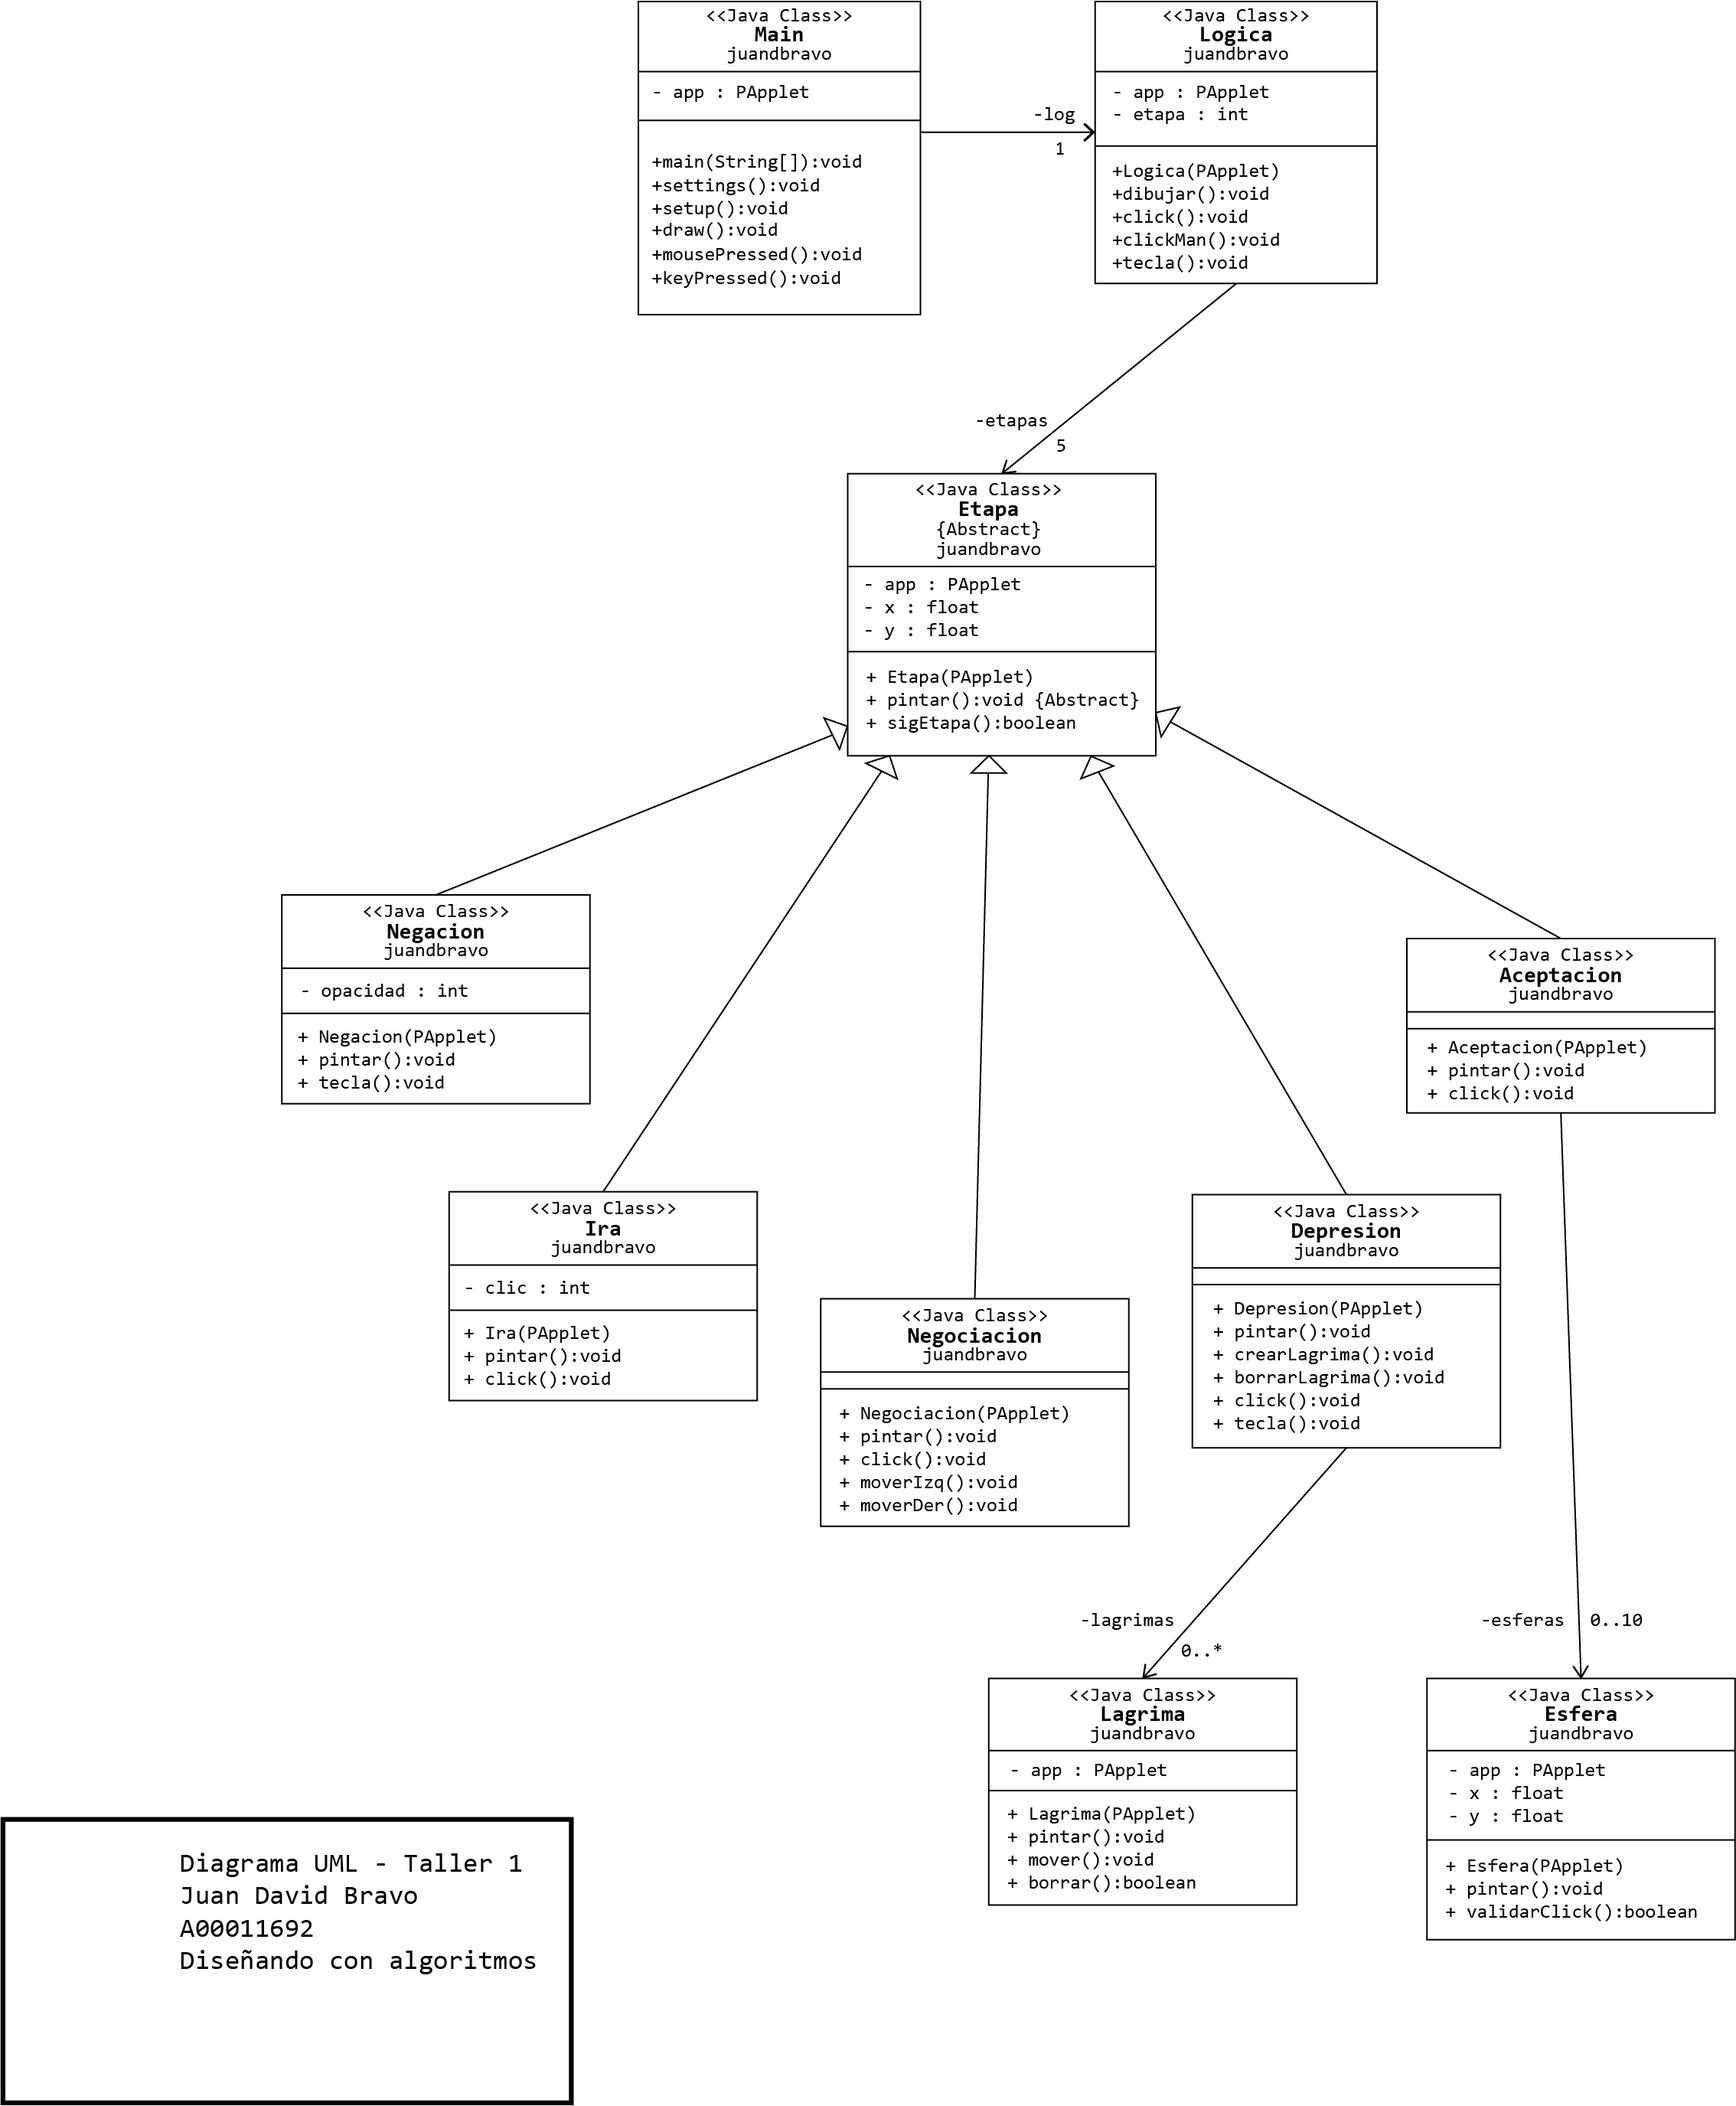
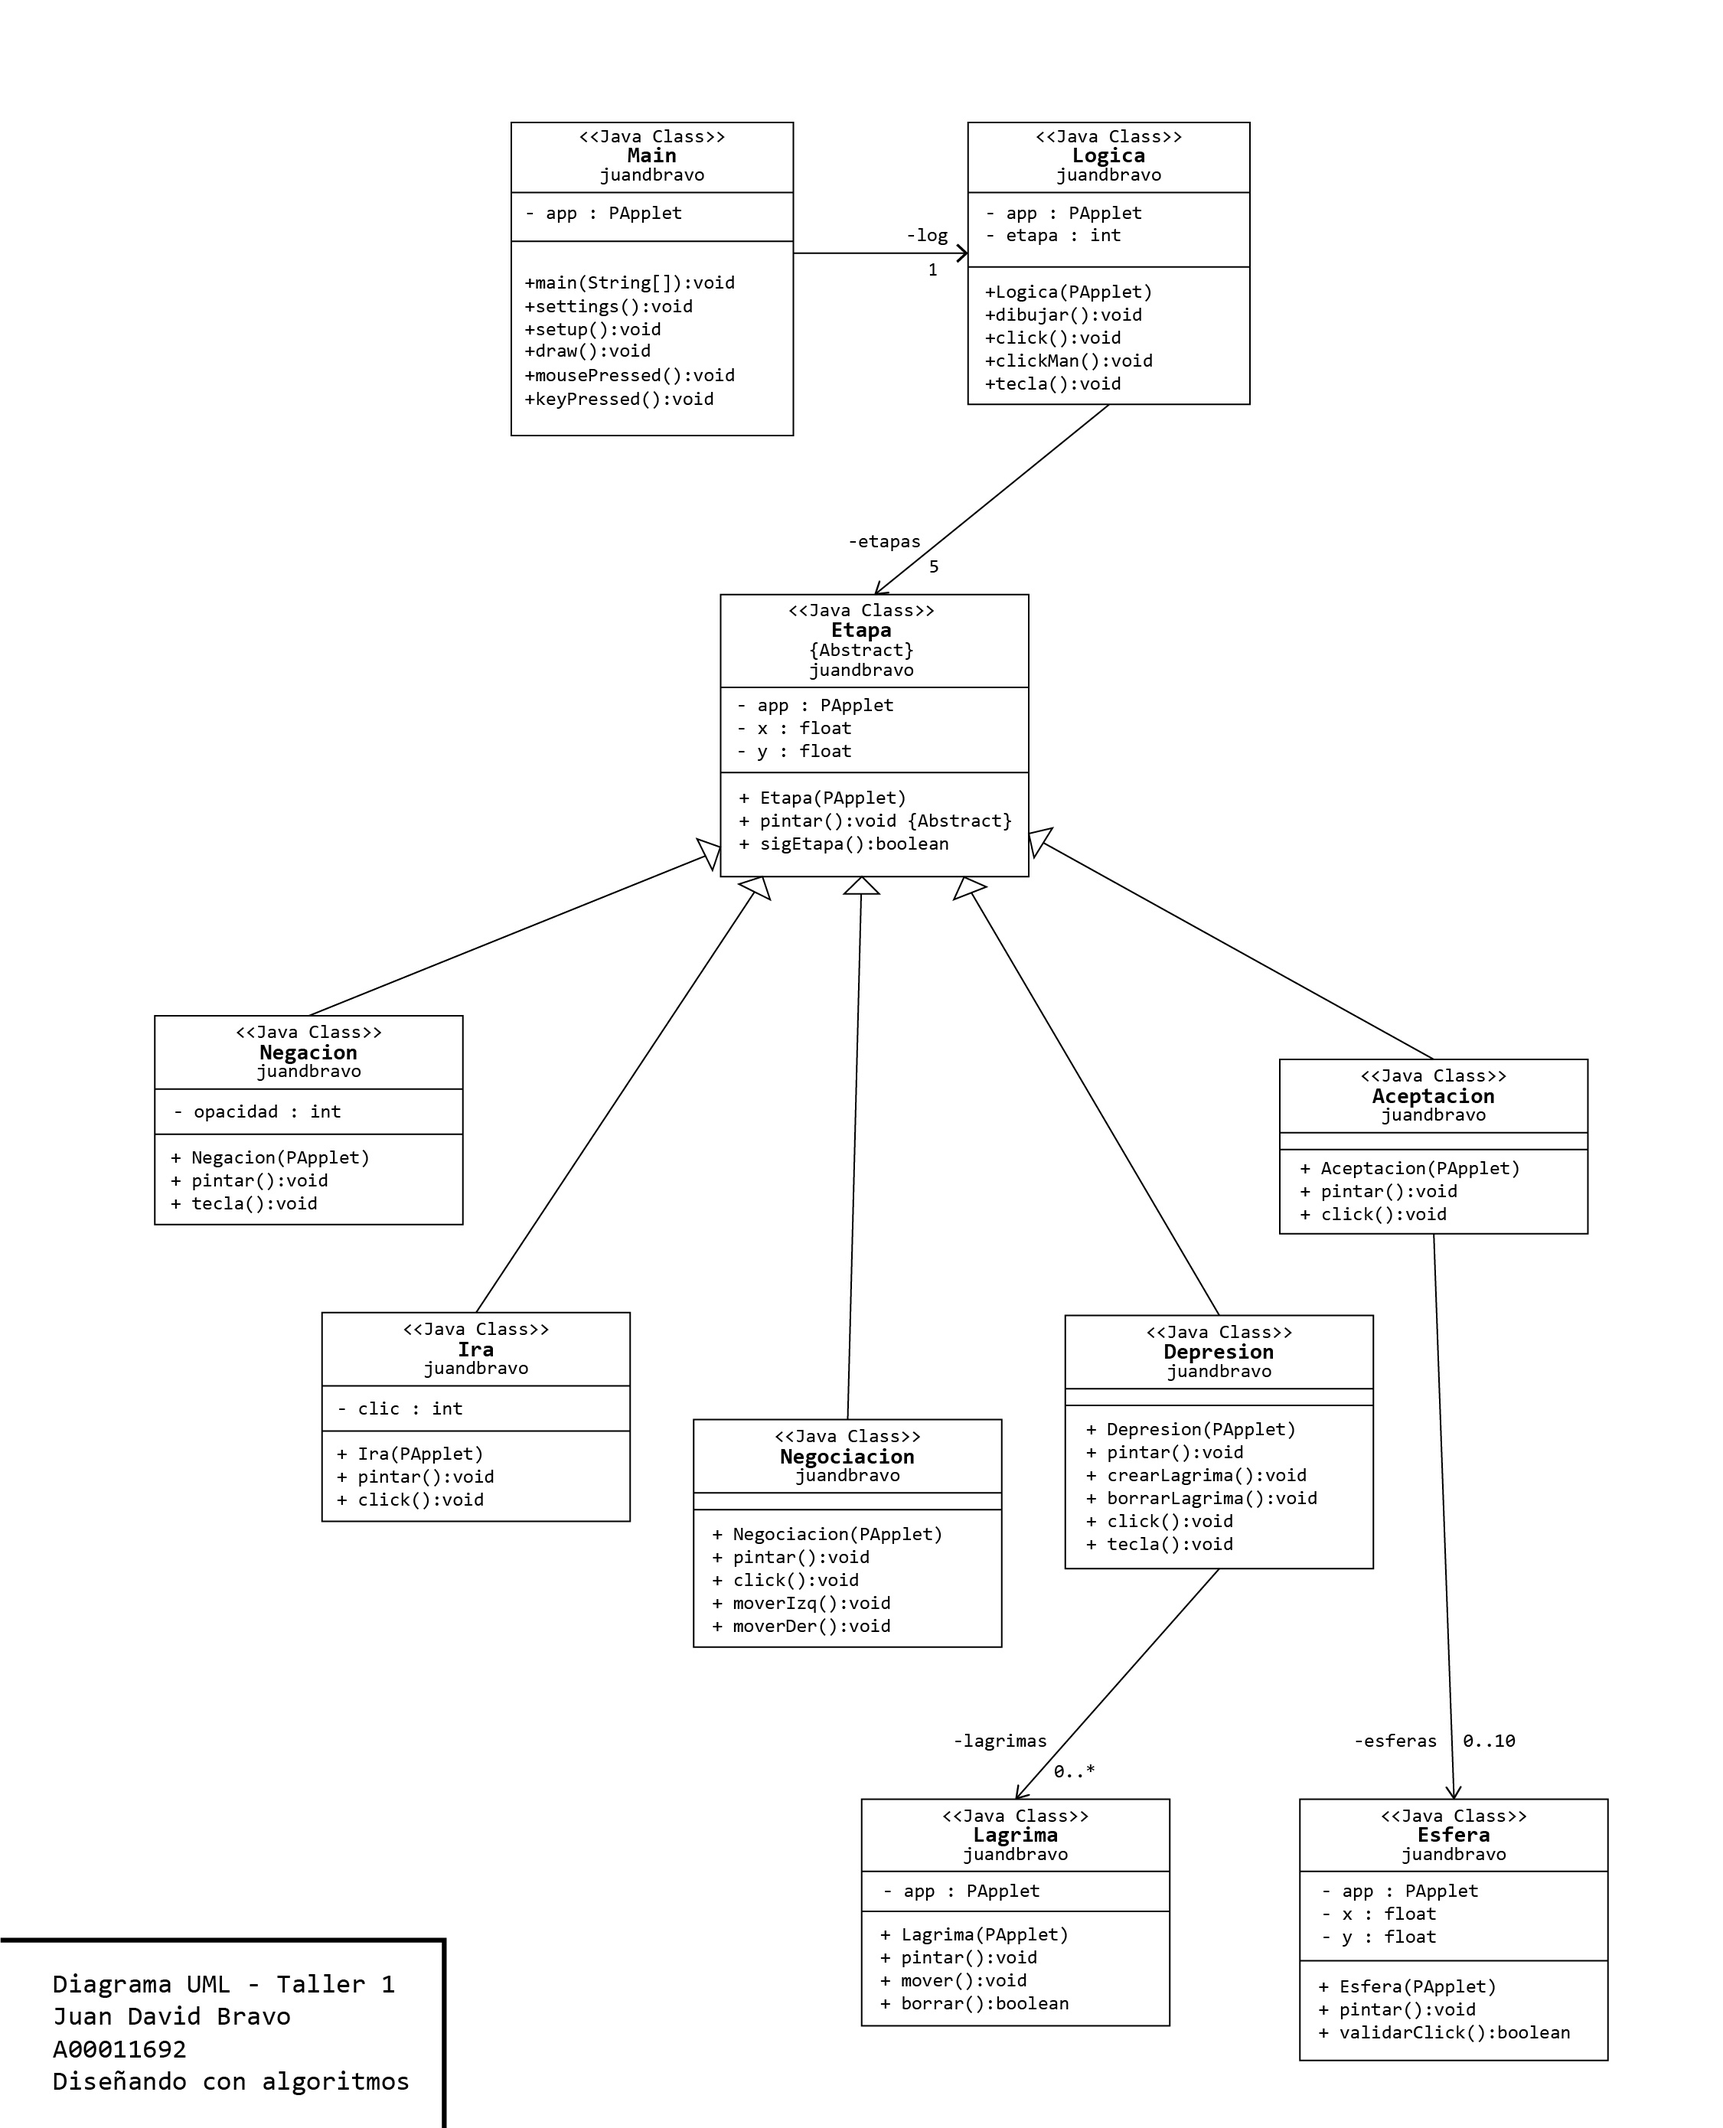
UML_README

diff --git a/bravoJuan_Taller1/src/juandbravo/Logica.java b/bravoJuan_Taller1/src/juandbravo/Logica.java
@@ -7,6 +7,7 @@ public class Logica {
 	private PApplet app;
 	private int etapa;
 	private Etapa[] etapas;
+	private String[] texto;
 	
 	public Logica(PApplet app) {
 		etapas = new Etapa[5];

diff --git a/bravoJuan_Taller1/src/juandbravo/Lagrima.java b/bravoJuan_Taller1/src/juandbravo/Lagrima.java
@@ -5,6 +5,8 @@ import processing.core.PApplet;
 public class Lagrima {
 
 	private PApplet app;
+	private float x;
+	private float y;
 	
 	public Lagrima(PApplet app) {
 		
